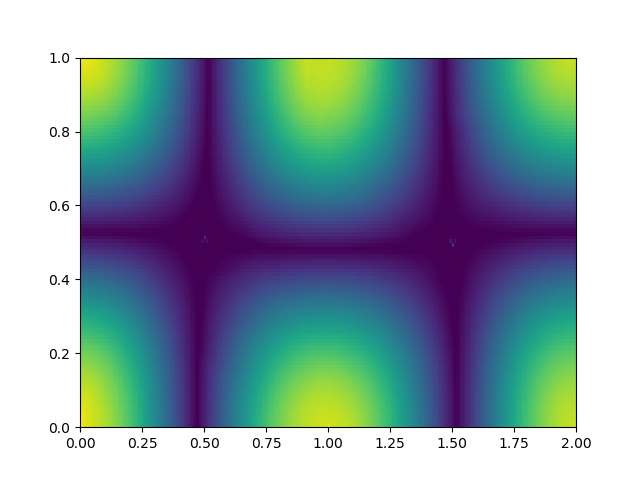
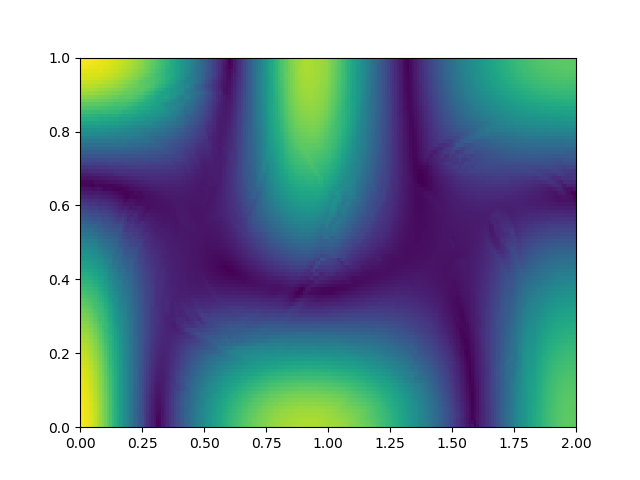
updates

diff --git a/pearson_coeff_dg.py b/pearson_coeff_dg.py
@@ -8,7 +8,7 @@ from velocities import double_gyre as vel_func
 dimx = 201
 #dimy = int(np.ceil(dimx/2.5))
 dimy = int(np.ceil(dimx/2))
-dimt = 101
+dimt = 11
 #dimy = 0.5*dimx
 t0 = 0
 tf = -3 #days
@@ -37,9 +37,9 @@ dfudy,dfudx = np.gradient(fu,dy,dx,axis=(1,2),edge_order=2)
 dfvdy,dfvdx = np.gradient(fv,dy,dx,axis=(1,2),edge_order=2)
 del fu,fv
 #JF = np.empty([dimy,dimx])
-ftle = np.empty([dimt,dimy,dimx])
+ftle = np.zeros([dimt,dimy,dimx])
 for t in range(dimt):
-    if want_time[t]==t0:
+    if t==0:
         continue
     for i in range(dimy):
         for j in range(dimx):
